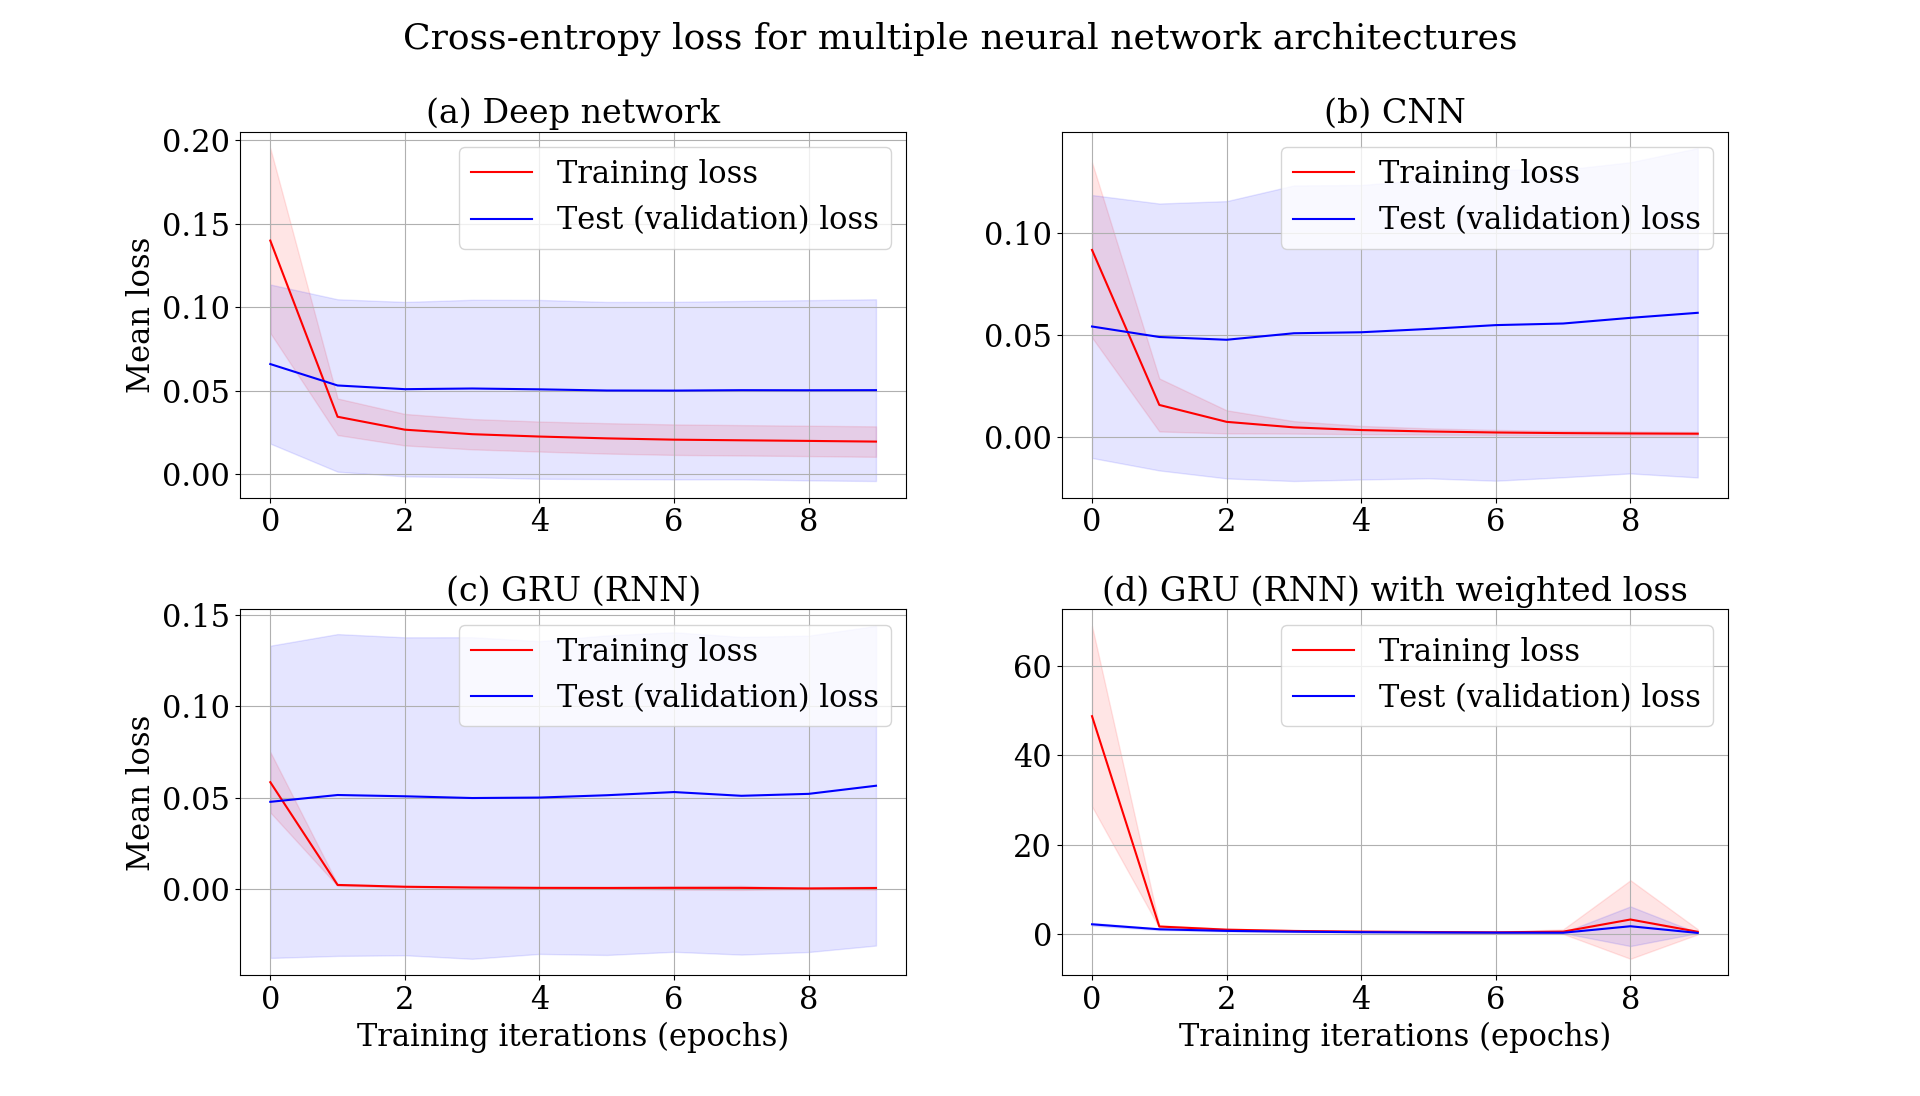
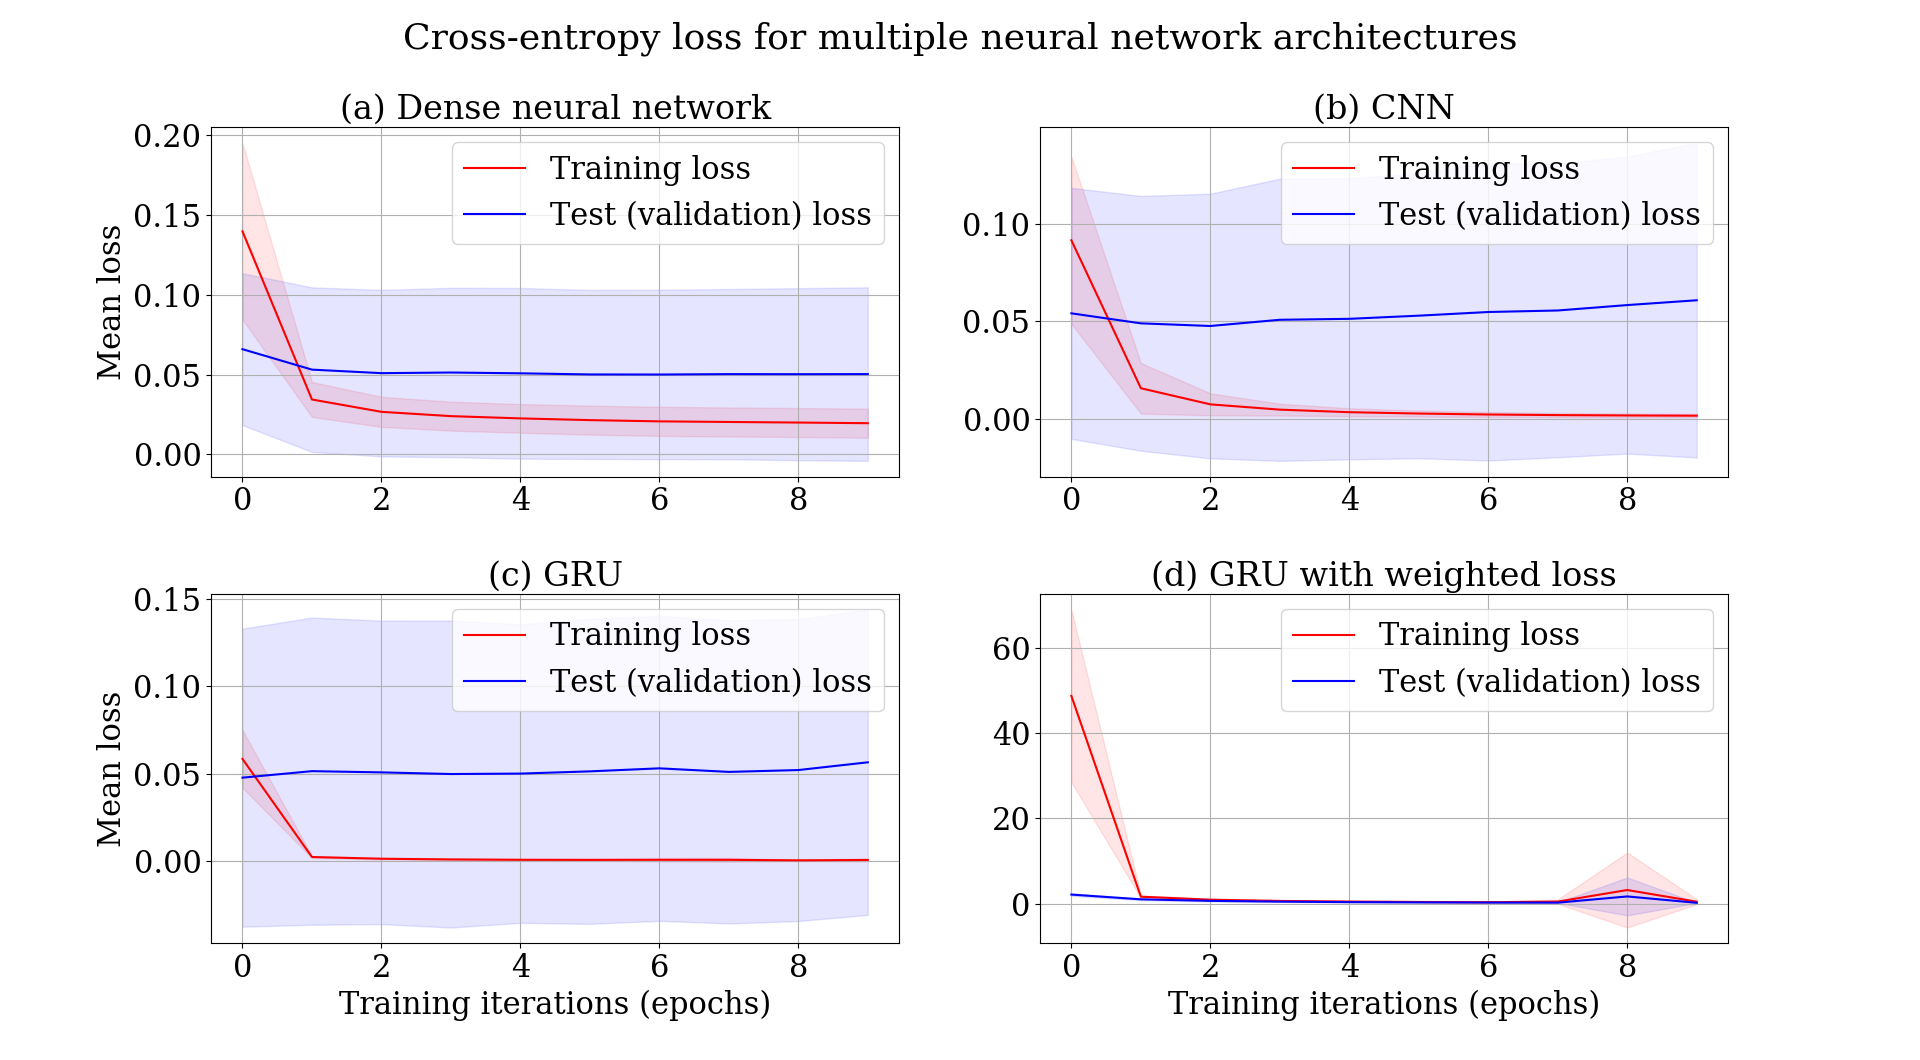
Update files

diff --git a/final_evaluations/plots_paper_presentation.py b/final_evaluations/plots_paper_presentation.py
@@ -9,11 +9,6 @@ import json
 import warnings
 import operator
 
-import h5py
-from keras.models import model_from_json
-from keras import backend as K
-from keras.utils import get_custom_objects
-
 from matplotlib import pyplot as plt
 import matplotlib.gridspec as gridspec
 
@@ -23,7 +18,7 @@ base_path = 'data/'
 
 all_approaches_path = ['deep_network_bc/', 'cnn_bc/', 'rnn_bc/', 'rnn_custom_loss/']
 
-titles = ['(a) Deep network', '(b) CNN', '(c) GRU (RNN)', '(d) GRU (RNN) with weighted loss']
+titles = ['(a) Dense neural network', '(b) CNN', '(c) GRU', '(d) GRU with weighted loss']
 
 
 font = {'family': 'serif', 'size': 22}
@@ -304,17 +299,96 @@ def plot_path_size_distribution(x_val, title, xlabel, ylabel, xlabels):
     plt.grid(True)
     plt.show()
 
-plot_path_size_distribution(sorted_key_values, 'Data distribution', 'Number of tools in paths', 'Number of paths', sizes)
+#plot_path_size_distribution(sorted_key_values, 'Data distribution', 'Number of tools in paths', 'Number of paths', sizes)
 
 all_approaches_path = ['cnn_bc/', 'cnn_custom_loss/', 'rnn_bc/', 'rnn_custom_loss/']
 
-titles = ['(a) CNN', '(b) CNN (weighted loss)', '(c) GRU (RNN)', '(d) GRU (RNN) with weighted loss']
+titles = ['(a) CNN', '(b) CNN (weighted loss)', '(c) GRU', '(d) GRU with weighted loss']
 
 
-assemble_loss()
-plt.show()
+#assemble_loss()
+#plt.show()
 #assemble_usage()
 #plt.show()
 #assemble_accuracy()
 #plt.show()
+
+################################################################ Tool usage
+
+
+import csv
+import numpy as np
+import collections
+
+import plotly
+import plotly.graph_objs as go
+from plotly import tools
+import plotly.io as pio
+from matplotlib import pyplot as plt
+
+def format_tool_id(tool_link):
+        tool_id_split = tool_link.split( "/" )
+        tool_id = tool_id_split[ -2 ] if len( tool_id_split ) > 1 else tool_link
+        return tool_id
+
+tool_usage_file = "../data/tool_usage/tool-popularity.tsv"
+cutoff_date = '2017-12-01'
+tool_usage_dict = dict()
+tool_list = list()
+dates = list()
+with open( tool_usage_file, 'rt' ) as usage_file:
+    tool_usage = csv.reader(usage_file, delimiter='\t') 
+    for index, row in enumerate(tool_usage):
+        if (str(row[1]) > cutoff_date) is True:
+            tool_id = format_tool_id(row[0])
+            tool_list.append(tool_id)
+            if row[1] not in dates:
+                dates.append(row[1])
+            if tool_id not in tool_usage_dict:
+                tool_usage_dict[tool_id] = dict()
+                tool_usage_dict[tool_id][row[1]] = int(row[2])
+            else:
+                curr_date = row[1]
+                if curr_date in tool_usage_dict[tool_id]:
+                    tool_usage_dict[tool_id][curr_date] += int(row[2])
+                else:
+                    tool_usage_dict[tool_id][curr_date] = int(row[2])
+unique_dates = list(set(dates))
+for tool in tool_usage_dict:
+    usage = tool_usage_dict[tool]
+    dts = usage.keys()
+    dates_not_present = list(set(unique_dates) ^ set(dts))
+    for dt in dates_not_present:
+        tool_usage_dict[tool][dt] = 0
+    tool_usage_dict[tool] = collections.OrderedDict(sorted(usage.items()))
+tool_list = list(set(tool_list))
+
+colors = ['r', 'b', 'g', 'c']
+tool_names = ['Cut1', 'cufflinks', 'bowtie2', 'DatamashOps']
+legends_tools = ['Tool B', 'Tool C', 'Tool D', 'Tool E']
+xticks = ['Jan, 2018', 'Feb, 2018', 'Mar, 2018', 'Apr, 2018', 'May, 2018', 'Jun, 2018', 'Jul, 2018', 'Aug, 2018', 'Sep, 2018', 'Oct, 2018', 'Nov, 2018', 'Dec, 2018', 'Jan, 2019', 'Feb, 2019' ]
+
+def plot_tool_usage(tool_names):
+    plt.figure(figsize=(12, 12))
+    for index, tool_name in enumerate(tool_names):
+        y_val = []
+        x_val = []
+        tool_data = tool_usage_dict[tool_name]
+        for x, y in tool_data.items():
+            x_val.append(x)
+            y_val.append(y)
+        y_reshaped = np.reshape(y_val, (len(x_val), 1))
+        plt.plot(y_reshaped[:len(y_reshaped) -1], colors[index])
+
+    plt.legend(legends_tools)
+    plt.xlabel('Months', size=size_label)
+    plt.ylabel('Usage frequency', size=size_label)
+    x_val = x_val[:len(x_val) - 1]
+    plt.title("Usage frequency of tools over months")
+    plt.xticks(range(len(xticks)), xticks, size=size_label, rotation='30')
+    plt.grid(True)
+    plt.show()
+
+
+plot_tool_usage(tool_names)
 
